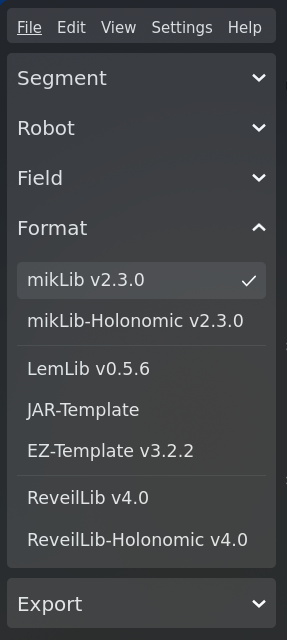
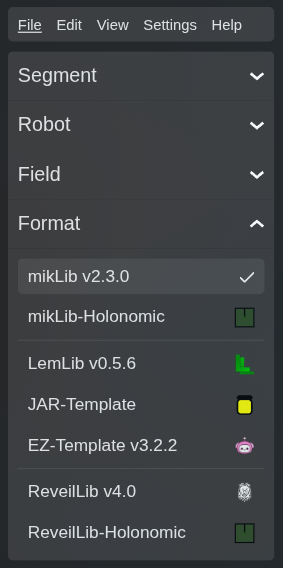
Updated docs, fixed constant naming

diff --git a/src/simulation/mikLibSim/MikConstants.ts b/src/simulation/mikLibSim/MikConstants.ts
@@ -144,7 +144,7 @@ export const mikTurnExitConditionsSettings: Fields = [
 ];
 
 export const mikPIDConstantsSettings: Fields = [
-    { key: "max_voltage", units: "volt", label: "Max Speed", input: { bounds: [0, 12], stepSize: 1, roundTo: 1 } },
+    { key: "max_voltage", units: "volt", label: "Max Voltage", input: { bounds: [0, 12], stepSize: 1, roundTo: 1 } },
     { key: "kp", label: "kP", units: "", input: { bounds: [0, 100], stepSize: 0.1, roundTo: 5 } },
     { key: "ki", label: "kI", units: "", input: { bounds: [0, 100], stepSize: 0.01, roundTo: 5 } },
     { key: "kd", label: "kD", units: "", input: { bounds: [0, 100], stepSize: 0.1, roundTo: 5 } },
